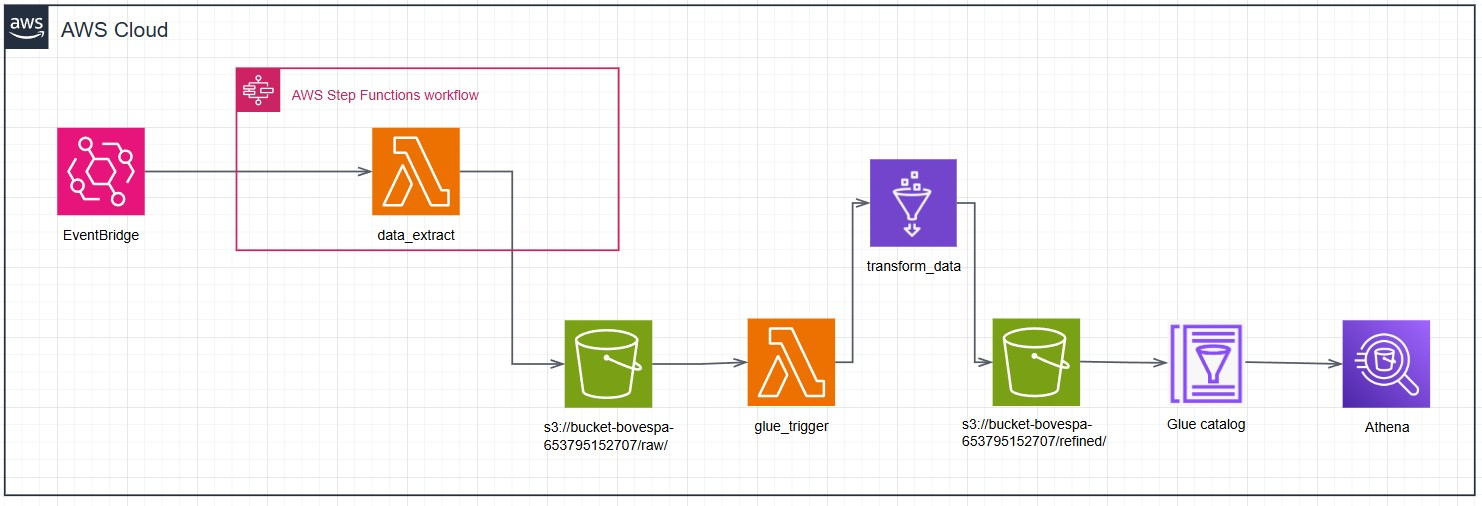
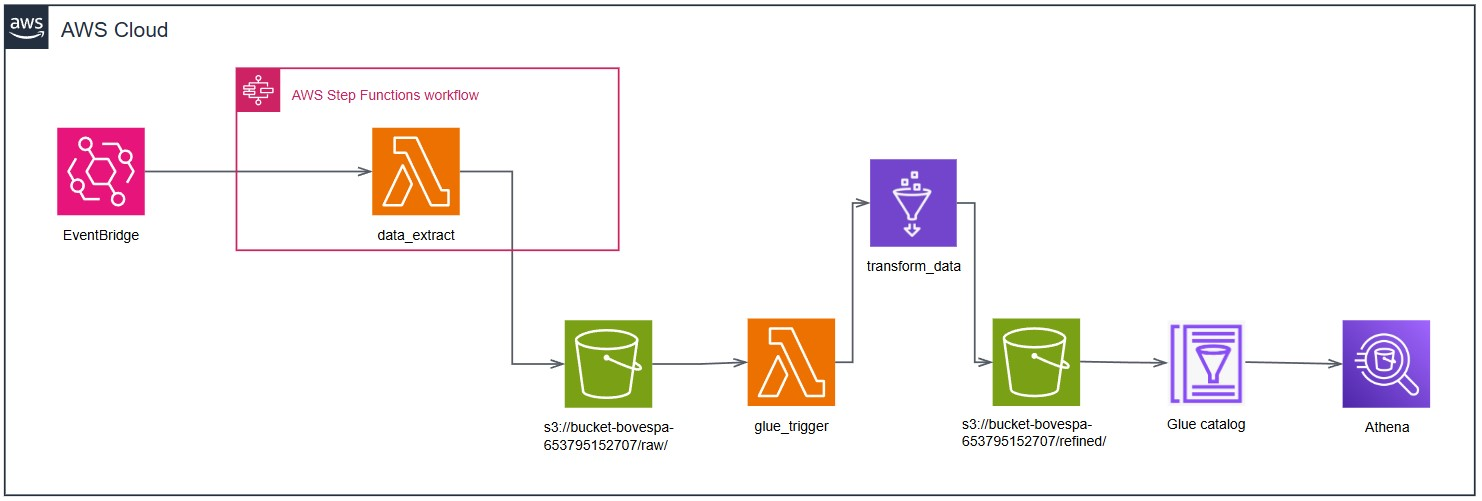
Novo desenho de arquitetura

diff --git a/README.md b/README.md
@@ -38,4 +38,4 @@ A solução utiliza **AWS Lambda**, **S3**, **Glue** e **Athena** para realizar 
 
 ## 🏗 Arquitetura do Projeto
 
-![Arquitetura do projeto](img/Captura%20de%20tela%202025-08-03%20181940.jpg)
+![Arquitetura do projeto](img/arquitetura.jpg)
